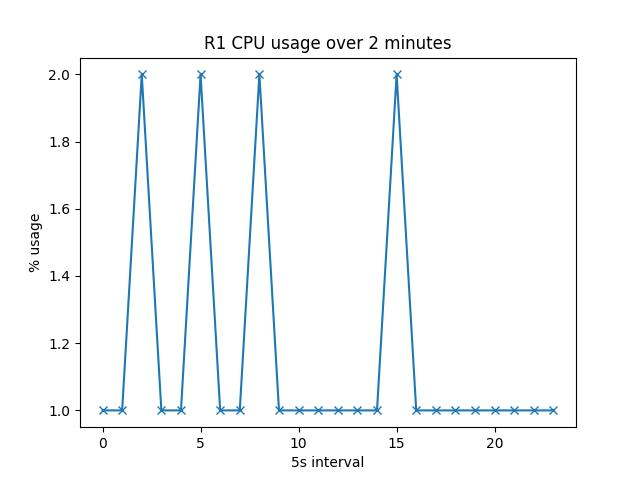
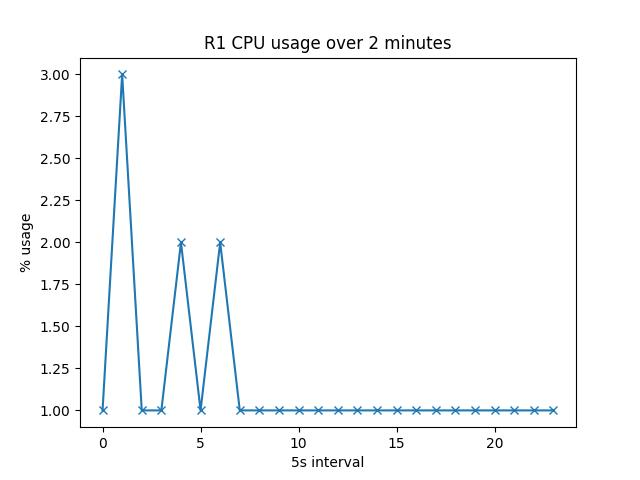
1 new files & 4 modified files added

diff --git a/src/main.py b/src/main.py
@@ -1,156 +1,20 @@
-from fasthtml.common import *
+import asyncio
 
-from model import Router
+import NMdhcp
+import NMsnmp
+import NMgithub
 
-hdrs = (
-    Link(
-        rel="stylesheet",
-        href="https://cdnjs.cloudflare.com/ajax/libs/flexboxgrid/6.3.1/flexboxgrid.min.css",
-        type="text/css",
-    ),
-    MarkdownJS(),
-    HighlightJS(langs=["python", "javascript", "html", "css"]),
-)
+def main():
+    # get Router 5's ip
+    r5_ip = NMdhcp.findR5()
+    # configure DHCPv4
+    NMdhcp.R5_dhcp_server(r5_ip)
+    # save router IP's to json
+    NMsnmp.save_to_json("json_str.txt")
+    # make a plot
+    asyncio.run(NMsnmp.cpu_data("172.16.0.1"))
+    # add / commit / push git changes
+    NMgithub.push_changes()
 
-db = database("routers.db")
-routers = db.create(Router, pk="index")
-
-app = FastHTML(pico=True, hdrs=hdrs)
-
-count = 0
-
-
-@app.get("/")
-def home():
-    return Title("Count Demo"), Main(
-        H1("Count Demo"),
-        P(f"Count is set to {count}", id="count"),
-        Button(
-            "Increment", hx_post="/increment", hx_target="#count", hx_swap="innerHTML"
-        ),
-        Ul(
-            Li(A("markdown demo", href="/markdown")),
-            Li(A("router form", href="/router_form")),
-        ),
-    )
-
-
-@app.get("/markdown")
-def markdown():
-    content = """
-    # header 1
-
-    ## header 2
-
-    list
-    - item 1
-    - item 2
-    **bold text**
-    *italic text*
-    """
-    return Div(H2("Markdown Demo"), Div(content, cls="marked"))
-
-
-@app.post("/increment")
-def increment():
-    print("incrementing")
-    global count
-    count += 1
-    return f"Count is set to {count}"
-
-
-router_form = (
-    Form(method="post", action="/router")(
-        Div(
-            Div(
-                H2("Router Configuration"),
-                Fieldset(
-                    Div(
-                        Label("Index", cls="col-xs-4"),
-                        Input(name="index", cls="col-xs-8"),
-                        cls="row",
-                    ),
-                    Div(
-                        Label("IPs", cls="col-xs-4"),
-                        Input(name="ips", cls="col-xs-8"),
-                        cls="row",
-                    ),
-                    Div(
-                        Label("Loopbacks", cls="col-xs-4"),
-                        Input(name="loopbacks", cls="col-xs-8"),
-                        cls="row",
-                    ),
-                    Div(
-                        Label("User", cls="col-xs-4"),
-                        Input(name="user", cls="col-xs-8"),
-                        cls="row",
-                    ),
-                    Div(
-                        Label("Password", cls="col-xs-4"),
-                        Input(name="password", type="text", cls="col-xs-8"),
-                        cls="row",
-                    ),
-                    Div(
-                        Label("Secret", cls="col-xs-4"),
-                        Input(name="secret", type="text", cls="col-xs-8"),
-                        cls="row",
-                    ),
-                ),
-                Br(),
-                Button("Save", type="submit"),
-            ),
-        )
-    ),
-)
-
-
-def configured(router_keys):
-    return Div(
-        H2("Configured Routers"),
-        Ul(
-            *[Li(A(f"Router {k}", href=f"/router_view/{k}")) for k in router_keys],
-        ),
-    )
-
-
-@app.get("/router_form")
-def router_form_view():
-    r_keys = [k.index for k in routers()]
-    return Div(
-        Div(
-            A("Home", href="/"),
-            router_form,
-            configured(r_keys),
-            cls="col-xs-6",
-        ),
-        cls="container",
-    )
-
-
-@app.get("/router_view/{index}")
-def get_router(index: int):
-    router = routers.get(index)
-    if not router:
-        return "Router not found"
-    return Div(
-        H2(f"Router {router.index}"),
-        P(f"IPs: {router.ips}"),
-        P(f"Loopbacks: {router.loopbacks}"),
-        P(f"User: {router.user}"),
-        P(f"Password: {router.password}"),
-        P(f"Secret: {router.secret}"),
-        A("Back", href=f"/router_form"),
-    )
-
-
-@app.post("/router")
-def save_router(router: Router):
-    exists = router.index in routers
-    if exists:
-        routers.update(router)
-    else:
-        routers.insert(router)
-    return RedirectResponse(url=f"/router_view/{router.index}", status_code=303)
-
-
-serve(port=8000)
+if __name__ == "__main__":
+    main()

diff --git a/src/NMgithub.py b/src/NMgithub.py
@@ -5,12 +5,16 @@ repo = Repo("../")
 def push_changes():
     new_files = repo.untracked_files
     modified = [d.a_path for d in repo.index.diff(None)]
+
     for n in new_files:
         print(f"adding new file {n}")
     repo.index.add(new_files)
+
     for m in modified:
         print(f"adding updated file {m}")
         repo.git.add(m)
+
     msg = f"{len(new_files)} new files & {len(modified)} modified files added"
     repo.index.commit(msg)
-
+    remote_name="origin"
+    repo.remote(remote_name).push()

diff --git a/src/NMdhcp.py b/src/NMdhcp.py
@@ -100,6 +100,7 @@ def R5_dhcp_server(ip):
         dhcp_bindings = conn.send_command("show ip dhcp binding")
         conn.disconnect()
         ips = re.findall(r"10.\d+.\d+.\d+", dhcp_bindings)
+        print(f"IPs from R5 DHCP bindings {ips}")
         return ips
 
     except Exception as e:
